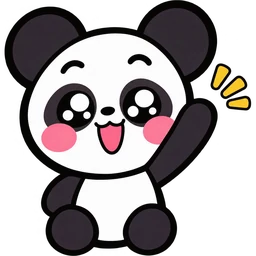
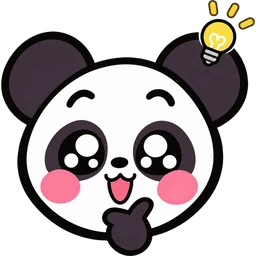
nitaku: solo button panda is now the face close-up with a light bulb
Claude-Session: https://claude.ai/code/session_01VNhb2hkhfox6azdXRsnDTE

diff --git a/CLAUDE.md b/CLAUDE.md
@@ -96,7 +96,7 @@
 - **みんなで遊ぶときの進み方**（鑑定者本人の指示 2026-11-13「一問一問答え合わせか、まとめて答え合わせかを選べるように」「全員答え終わったら次に勝手に進む」「スタートしてるかわからない」）：「どうやって遊ぶ？」の下で「答え合わせ：最後にまとめて／1問ずつ」を選べる（最初は「最後にまとめて」＝鑑定者本人の指示 2026-11-13「最終的に見れる方がいい」。名前の欄は「名前（6文字まで・ニックネームOK）」＝ニックネームでもふつうの名前でもよい・6文字まで（鑑定者本人の指示 2026-11-13「名前は6文字を制限に」））（部屋でも1台を回すときも。部屋では Firestore の決まりを変えずにすむよう、`lv` の後ろに `|end` を付けて覚える＝`roomLv`）。前は部屋を作った人のスマホだけが次へ進めていたので、そのスマホが画面を消したり別のアプリに切りかえたりすると止まり、3人とも答えても進まなかった。今は全員が答えたら、だれのスマホからでも自動で進む（1問ずつ＝結果発表へ／まとめて＝次の問題へ。2人が同時に進めても1回だけ進むよう Firestore の取引で確かめる＝`roomStep`・`Room.advance`）。結果発表の「次の問題へ」もだれでも押せる。答えない人（画面を閉じた人）がいて止まったときは、20秒たつと「答えた人だけで先に進む」が全員に出る。参加の画面に「まだ始まっていません（いま○人）／もう始まっています（○問目）」、部屋の画面のいちばん上に「⏳ まだ始まっていません」（作った人には「全員の名前が出てからスタート」）、始まったら「スタート！」と知らせる。答え合わせで人数が足りなかったのは、スタートのあとに参加した人がいたため（その人はその問題から加わる）。部屋から抜けてしまった人（画面を消した・アプリから戻ってページが読み直された など）は、ページを開くと自動でさっきの部屋にもどる（前の答えを引きつぐ。「さっきの部屋にもどりました」）。TOPを2回押して自分で出たときは自動ではもどさず、トップに「🔙 さっきの部屋（番号）にもどる」を出す（鑑定者本人の承認 2026-11-13「お願いします」。`roomResume`・`nitaku_room` の `left`）。部屋が閉じられた・名前が部屋にないときは出さない。1人だけ取り残されない工夫（鑑定者本人の指示 2026-11-13「3人でやった時に2人が問題始まってるのに私はずっと登録画面のまま」）：部屋の様子は変わったときの知らせ（onSnapshot）に加えて2秒ごとに自分からも確かめる・知らせが切れたら1秒後につなぎ直す・ほかのアプリから戻ったときはつなぎ直してすぐ確かめる・同じ中身は何度も渡さない（`Room.watch`）。知らせが届かないスマホでも約1.5秒で追いつくことを3台で確かめた（直す前はずっと部屋の画面のままだった）。
 - **同じメンバーでもう1回は「準備OK」がそろってから**（鑑定者本人の指示 2026-11-13「まだ読んでるのに始まってしまう」→「両方」）：結果の「同じメンバーでもう1回」「○○編でもう1回」は、作った人だけでなくだれでも押せる。押しても、ほかの人の結果の画面はそのまま（全員の画面に「○○さんが「もう1回」を押しました」のお知らせ）。画面の下に「準備OK」の帯（`#rdy`・`renderReady`）が出て、全員が押したら全員そろって次の回が始まる（`readyCheck`・`startNext`。2人が同時に始めても1回だけ＝取引）。押した人には「みんなの準備を待っています（2 / 3人）」と、だれが押したか（✅／⏳）。2分以上つながっていない人は待たない。1分たってもそろわないときは、準備OKを押した人に「そろった人だけで始める」が出る（押していない人は一覧から外す。まだ画面を開いていれば30秒ごとの知らせでまた入る）。部屋の段階は `phase:'ready'`、次の編と押した人は Firestore の決まりを変えずにすむよう `lv` の後ろに「#編#押した人」、準備OKは自分の ans の「ok:回」で覚える（`readyParts`）。あわせて、ひとり・みんなの結果に「📷 結果を画像で保存」（`saveImage`。cdnjs の html2canvas 1.4.1 を押したときだけ読む。メーターの円は絵に置きかえ、ボタン・1.66の紹介・たたんだ中身は入れない。スマホの共有で写真へ／使えないときは画像を出して長押しで保存）。3台で確かめた（読んでいる人の画面が変わらない・全員そろうと始まる・1分後のボタン）。
 - **はじめ方を「押したら何が起きるか」でわかる形に**（鑑定者本人の指示 2026-11-13「どのボタンで何が起きるか全然わからない」「パッとスタートさせなきゃダメ」「この形で進めてください」。見本 https://claude.ai/artifact/L8De4DT4XHGCxeBkf6d4im）：トップは「どっちで遊ぶ？」のあと、大きな2つのボタン「🙋 ひとりで診断（押したらすぐ1問目。15問・約3分）」（`#go-solo`。アイコンは悩むパンダ1匹）と「👥 友だちと遊ぶ（アイコンは仲良く並ぶパンダ2匹＋ハート）。パンダは鑑定者本人が ChatGPT で作った絵（2026-11-13「これにしてください」。白と黒＝二択。`nitaku/img/panda-1.webp`・`panda-2.webp`＝192px・透明な背景。前にこちらで描いた絵は「つり目で可愛くない」で使わない）（部屋を作って、LINEで呼ぶ／その場の人はQRで）」（`#go-group`）だけ。前の「参加する人を決める」「友だちの部屋に参加する（部屋番号）」「📣 このサイトを友だちに教える」の大きなボタンはやめ、「招待された人はこちら（部屋番号で参加）」（`#join-open`）と「このサイトをシェアする」（`#tell`）は小さい文字のリンクに。問題の数（友だちと＝8問・ひとり＝15問）・難しさ（ノーマル）・答え合わせ（最後にまとめて）は最初から選んでおき、変えたい人だけ「細かい設定」（`#opts`）を開く。「友だちと遊ぶ」は名前を入れて「部屋を作る」だけ（「それぞれのスマホで／1台を回して」は先に選ばせない。1台のときは下の小さい文字「スマホが1台しかないときは、こちら」＝`#style-sw`）。部屋の画面は、いちばん上の枠に「部屋ができました／○人そろいました！」・参加している人の名前（自分には「（あなた）」）・大きな「スタート（○人で遊ぶ）」（作った人だけ）をまとめ、その下に緑の「LINEで友だちを招待する」、たたんだ「その場にいる人を呼ぶ（QRコード）」（中に部屋番号）、小さい文字の「ほかのアプリで招待する」、たたんだ「自分たちで問題を作る（なくてもOK）」（鑑定者本人の指摘 2026-11-13「スタートボタンは真ん中に」「LINEで送った人には部屋番号やQRは関係ない」「情報がいっぱいだとわかりづらい」）。招待された人の画面は「参加できました！」・名前・「○○さんが「スタート」を押すと、自動で始まります」だけ（招待のボタン・QRは出さない）。いまの状態は全員の画面ではっきり出す（鑑定者本人の指示 2026-11-13「揃ったのか、スタートなのか、待ってなきゃいけないのか、はっきりしないといけない」）：枠のいちばん上の札＝作った人「⏳ 友だちを待っています」（黄）→「✅ ○人そろいました」（緑）・招待された人「✅ 参加できました（いま○人）」。見出し＝作った人「まだ誰も来ていません」→「スタートできます！」／招待された人「○○さんのスタートを待っています」＋「あなたは何もしなくて大丈夫です。…自動で問題に変わります」。だれかが入ると、全員の画面に大きく「○○さんが入りました！ ○人になりました」（2.2秒・ふるえる。`splash`）、スタートすると全員に大きく「スタート！ 1問目です」（1.6秒）。同じ名前の人がもう部屋にいるときは参加させず「別の名前にしてね」と出す（同じ人が別のブラウザで入ると2人に数えられ、「3人」になっていたため）。色は今のまま（あざやかなピンクのボタン・LINEの緑。鑑定者本人の判断 2026-11-13「今まででOK。目立つからいい」。LINE・インスタなどのアプリの色はわかりやすいので使う）。ボタン・札・お知らせの文字は、幅360・390・430で1〜2文字だけの行・ボタンの2行折れ・13px未満の文字がないことを測って確かめた（鑑定者本人の指示「泣き別れがしないように文字の大きさも気をつけて」。「細かい設定（問題の数・難しさなど）」「スマホが1台だけのときは、こちら」に短くした）。遊び方は「ひとりで診断」と「みんなで遊ぶ（それぞれのスマホで。近くの人はQRで、離れた人はLINEで呼べます）」の2つだけ。スマホ1台を回す遊び方は出さない（鑑定者本人の判断 2026-11-13「回すのはプライバシーもあるから嫌だと思う。いらない」。`#style-sw` を hidden にしただけで中身は残してある）。QR・LINEのリンクから来た人は、前に名前を入れたことがあれば何も押さずにそのまま部屋に入る（「「○○」として部屋に入っています…」。同じ名前が部屋にいれば止まって名前の欄が出る）。初めての人は名前を入れて「参加する」だけ。サイトを開いたまま部屋のリンクを押したときも、その部屋に入る（`hashchange`）。部屋の画面のQRは「近くの人はQRコードで呼ぶ」の中。部屋は作ってから12時間使える（作った人が「TOP」2回・「リセット」で部屋を出たら、その時点で閉じる。画面を消す・ブラウザを閉じるだけなら閉じない）。閉じた・12時間たった部屋のリンクを開いた人には「この部屋は終わっています／招待してくれた人に、新しい部屋のリンクを送ってもらってね」と出し、名前の欄・参加するボタンは出さない（`roomEnded`・`showEnded`。番号を手で入れたときは「見つからないか、もう終わっています」）。作った人が1分たっても1人のままなら「なかなか来ないときは、もう一度LINEで送ってみてね。この画面を閉じても、部屋は12時間のこっています」と出す（鑑定者本人の指示 2026-11-13「そうしてください」）。部屋を作った人は、参加している人の名前の横の × を2回押すと、その人を部屋から外せる（前に開いた画面から入った分・来なくなった人が残ったとき用）。同じ名前の人が2人いたら、作った人の画面に「同じ名前の人が2人います…× で外せます」と出す。ページを開き直したとき自動でさっきの部屋にもどるのは、遊んでいる途中（問題・答え合わせ）だけ。「🔙 さっきの部屋にもどる」のボタンは出さない（鑑定者本人の決定 2026-11-13「なくす」。古い部屋に知らないうちにもどり、前に入った人が残って「3人」に見えたため）。**部屋は最後の動きから30分で終わる**（鑑定者本人の決定 2026-11-13。だれかが入る・答える・スタートする・部屋の画面を開いている〈30秒ごとに「まだいます」を知らせる〉のどれかがあれば続く。作ってから12時間でも終わる。最後に書いた時刻は Firestore の決まりを変えずにすむよう expireAt〈＝その12時間後〉に入れ、読むときに seen にもどす。`lastAct`・`alive`）。**集まっている途中は、2分以上つながっていない人を一覧から自動で外す**（鑑定者本人の決定 2026-11-13「自動で外す」。作った人のスマホが部屋からも消す。戻ってきたらまた入れる）。だれかが入ったお知らせの長い名前は枠の中で折り返す。参加の画面には、いま部屋にいる人の名前（👑つき）と人数を出す（「2人なのに3人」と見えたため。だれが入っているかがわかるように）。**部屋を作った人が、自分で送ったLINEのリンクを押してしまったとき**（鑑定者本人の指摘 2026-11-13「スタートするところが見つけられなくて、名前を入力する画面に戻ってしまう」）：LINEの中の画面は別のブラウザなので、同じ名前の人がもう部屋にいると止まっていた。今は「「りえ」さんは、もうこの部屋にいます（部屋を作った人）。あなた自身ですか？」と聞き、「はい、自分です」でその人として続ける（作った人ならその画面からスタートできる。`#join-same`・`S.sameJoin`。2つの画面で答えた分は引きつぐ）。「ちがう人です」か名前を直すと、別の名前で参加。部屋の画面のLINEのボタンの下に「📌 送ったら、この画面にもどって「スタート」を押してね。自分で送ったリンクは押さなくて大丈夫です」（`.lb-back`）。結果の「心の中を見る」は小さくて押せるとわからなかったので、黄色の大きなボタン「🔍 心の中をくわしく見る ▼」（`.kok`）にした。**結果の見せ方**（鑑定者本人の選択 2026-11-13「Aの見せ方で、Bの部分を入れたい」。見本 https://claude.ai/artifact/4ig2Ww44AjwmCq6a7CHAYJ）：みんなの結果のひとりずつの診断は、いちばん上の％をピンクの丸いメーター（`.pp-ring`）＋名前、ひとことは黄色の枠（`.pp-say`）、ほかの3つの％は色ちがいの小さな四角（水色・オレンジ・ミント。`.pp-tiles`）。即決はオレンジの地・いちばん悩んだは水色の地で、札は黒（`.pk-q`・`.pk-s`）。ひとりの結果の3つの四角（`.minis`）・選び方のくせの即決／悩んだも同じ色。ひとりずつの診断は、人ごとに枠の色を交互に変える（1人目＝うすいピンクの地・ピンクのメーター／2人目＝うすい紫の地・紫のメーター。`.ppl-a`・`.ppl-b`。鑑定者本人の指示 2026-11-13「人によって色を交互に」）。トップ（`/`）とまとめページ（`/renai/` など）も、スマホに覚えさせない（`firebase.json` の Cache-Control＝no-cache。前は `*.html` にしか付けておらず、`/` で開くとスマホが1時間前の版を出しつづけ、直した画面が鑑定者本人のスマホに届いていなかった＝2026-11-13 の「何回も同じことになる」の原因）。新しい版を公開したら、前の版を開いている画面は1回だけ読み直す（`<meta name="nitaku-build">`。公開のときに GitHub Actions がコミットの番号を入れる。LINE・Google アプリの中の画面が前の版のままだったため）。見た目：黒くぬったボタンをやめ、押してほしいボタン（`.big`）はピンク（#FF3D7F）に黒い文字・黒い線、選んでいるもの（`.seg`）は黄色（#FFE071）、名前の欄は二重の枠をやめて1つの枠に（`<style id="flow2">`）。
-- **パンダの表情**（鑑定者本人の指示 2026-11-13「パンダを主役にして表情を増やす」「これで」。絵は鑑定者本人が ChatGPT で作った。見本 https://claude.ai/artifact/Hhi8yCWWhayAyazRkxhmWf）：`nitaku/img/panda-*.webp`（256px・透明な背景）。①待っている（wait）＝部屋の画面（作った人が1人のとき・招待された人）・もう1回の「準備OK」の帯・「○○さんが「もう1回」を押しました」のお知らせ／②大よろこび（joy）＝作った人の「○人そろいました」・「スタート！」のお知らせ／③おどろく（wow）＝みんなの結果の「いちばんの少数派（個性派）」・ひとりの結果で多数派度35%以下／④ニヤリ（smirk）＝ひとりの結果でいちばん上の％が65%以上／⑤てれる（shy）＝35%未満（まん中は今の悩むパンダ panda-1）／⑥手をふる（bye）＝「○○さんが入りました！」のお知らせ（おどろくは入ったときに合わないので入れかえた＝鑑定者本人の指摘）／⑦しょんぼり（sad）＝「この部屋は終わっています」。1つの画面にパンダは1匹だけ。問題の画面には出さない。パンダ以外のイラストは足さない（1.66の牛とねずみは紹介のカードの中だけ）。シェアの画像（`og-image.png`）にも、左に悩むパンダ・右にニヤリのパンダを入れた（`og-image-src.html`。アドレスの後ろは `?v=3`）。トップの題名のカード（`.hero`）の下のすみにも同じ2匹（`.hpd`。鑑定者本人の指示 2026-11-13「これでOK」）。そのため「ひとりで診断」のボタンのパンダは、悩むパンダが2回並ばないよう、手を挙げるパンダ（`panda-solo.webp`）に変えた（鑑定者本人の指示 2026-11-14。絵は鑑定者本人が作った）。
+- **パンダの表情**（鑑定者本人の指示 2026-11-13「パンダを主役にして表情を増やす」「これで」。絵は鑑定者本人が ChatGPT で作った。見本 https://claude.ai/artifact/Hhi8yCWWhayAyazRkxhmWf）：`nitaku/img/panda-*.webp`（256px・透明な背景）。①待っている（wait）＝部屋の画面（作った人が1人のとき・招待された人）・もう1回の「準備OK」の帯・「○○さんが「もう1回」を押しました」のお知らせ／②大よろこび（joy）＝作った人の「○人そろいました」・「スタート！」のお知らせ／③おどろく（wow）＝みんなの結果の「いちばんの少数派（個性派）」・ひとりの結果で多数派度35%以下／④ニヤリ（smirk）＝ひとりの結果でいちばん上の％が65%以上／⑤てれる（shy）＝35%未満（まん中は今の悩むパンダ panda-1）／⑥手をふる（bye）＝「○○さんが入りました！」のお知らせ（おどろくは入ったときに合わないので入れかえた＝鑑定者本人の指摘）／⑦しょんぼり（sad）＝「この部屋は終わっています」。1つの画面にパンダは1匹だけ。問題の画面には出さない。パンダ以外のイラストは足さない（1.66の牛とねずみは紹介のカードの中だけ）。シェアの画像（`og-image.png`）にも、左に悩むパンダ・右にニヤリのパンダを入れた（`og-image-src.html`。アドレスの後ろは `?v=3`）。トップの題名のカード（`.hero`）の下のすみにも同じ2匹（`.hpd`。鑑定者本人の指示 2026-11-13「これでOK」）。そのため「ひとりで診断」のボタンのパンダは、悩むパンダが2回並ばないよう、顔のアップの電球のパンダ（ひらめき・口を開けて笑う顔。`panda-solo.webp`）に変えた（鑑定者本人の指示 2026-11-14「最初のアイコンの顔だけに近いのが良い」「3枚目で」。手を挙げるパンダは⑥手をふると似ていたのでやめた。ないしょのポーズは「秘密は変」でやめた。絵は鑑定者本人が作った）。
 - **見やすさの点検**（鑑定者本人の質問 2026-11-12「今のサイトが一番見やすい状態か」）：主な画面で、文字と背景の差・文字の大きさ・押すところの大きさを機械で測った。人気の二択の一覧のクラス名 `.pop` が題名用の飾り文字（Mochiy Pop One）の決まりと重なっていたので `.popq` にした（本文の文字に戻った）。説明の小さな文字（12px以下）は13px以上に、「VS」の札は少し濃く（#9C1445）。言葉のちらし（12px）は飾りなのでそのまま。題名のピンクは見えやすさの安全装置で少し濃く（#CA3E6F）出ている。
 - **色はD（ビビッド）・VSは白い札**（鑑定者本人の選択 2026-11-13「左の白いVSとDでお願いします」）：クリーム色の点々の地（#FFF8E1）・黒に近い線と文字（#1E1E2A）・黄色の影（#F2C94C）・あざやかなピンク（#FF3D7F）。答えのカードは恋愛＝ピンク／水色、ふつう＝黄／ミント。問題の画面のVSは、白地に黒い線の札を少し傾けたもの（前のピンクの丸はやめた）。アイコンとシェアの画像も同じ色にそろえた（鑑定者本人の指示 2026-11-13「アプリのアイコンと画像も揃えてください」。題名のピンクはサイトに出ている色 #CC3166、シェア画像のVSは白い札。LINE・Xが前の画像を覚えているので、`og:image`・アイコンのアドレスの後ろに `?v=2` を付けた。次に作り直すときは数字を1つ上げる）。下の「パステル・ステッカー」の行は前の色の記録。
 - 見た目はパステル・ステッカー（鑑定者本人が5案をまぜて選んだ形 2026-11-01）：ラベンダーの点々の地・濃い紫の太い線・ずらした影、題名「究極の二択」はピンク（#E0457B）に紫の影、「本音バレ注意」のテープ・「無料3分」のシール、言葉のちらし（82%のメーターは出さない・題名はまん中＝鑑定者本人の指示 2026-11-01）、答えはパステル（恋愛＝ピンク・水色／ふつう＝黄・ミント）に濃い紫の文字。色はこの組み合わせからはずさない。デザイン案 https://claude.ai/artifact/MbqdfjgiFiKUbRZMuBQaG6
